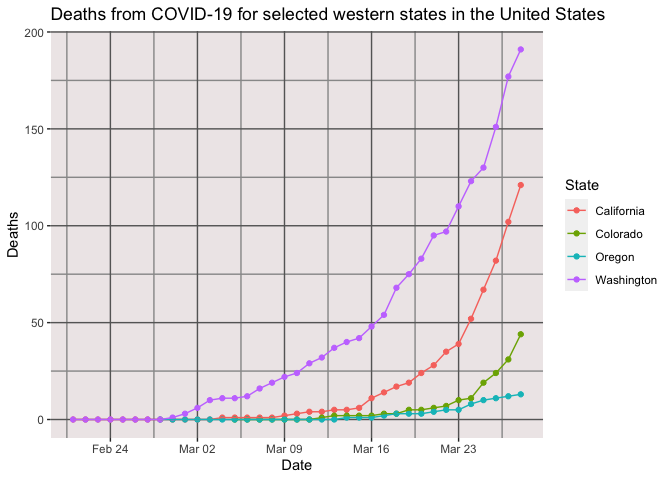
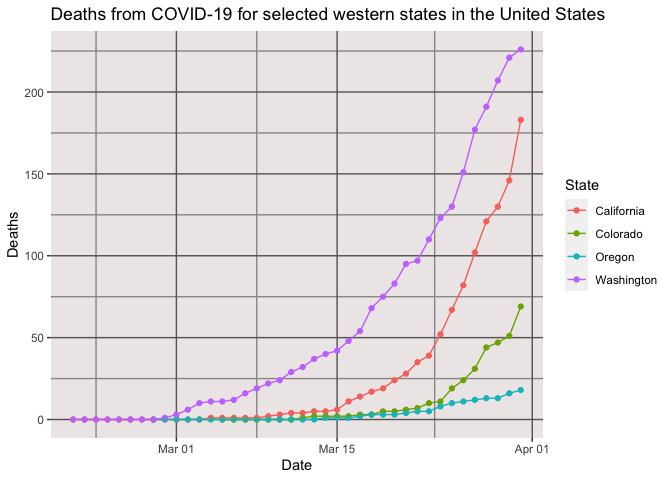
Plot data through 2020-03-31.

Changed region(s): [[0.0312, 0.0625, 0.8125, 0.9688], [0.6562, 0.9062, 0.7188, 0.9688], [0.7812, 0.9062, 0.8125, 0.9375]]

diff --git a/vignettes/covid19_deaths_by_state.md b/vignettes/covid19_deaths_by_state.md
@@ -1,7 +1,7 @@
 COVID-19 Deaths by State
 ================
 [Jim Tyhurst, Ph.D.](https://www.jimtyhurst.com/)
-2020-03-29
+2020-04-01
 
   - [Read data](#read-data)
   - [Cases by state](#cases-by-state)

diff --git a/vignettes/covid19_confirmed_cases.md b/vignettes/covid19_confirmed_cases.md
@@ -1,7 +1,7 @@
 COVID-19 Confirmed Cases
 ================
 [Jim Tyhurst, Ph.D.](https://www.jimtyhurst.com/)
-2020-03-29
+2020-04-01
 
   - [tl;dr](#tldr)
 

diff --git a/vignettes/covid19_deaths.md b/vignettes/covid19_deaths.md
@@ -1,7 +1,7 @@
 COVID-19 Deaths
 ================
 [Jim Tyhurst, Ph.D.](https://www.jimtyhurst.com/)
-2020-03-29
+2020-04-01
 
   - [tl;dr](#tldr)
 
